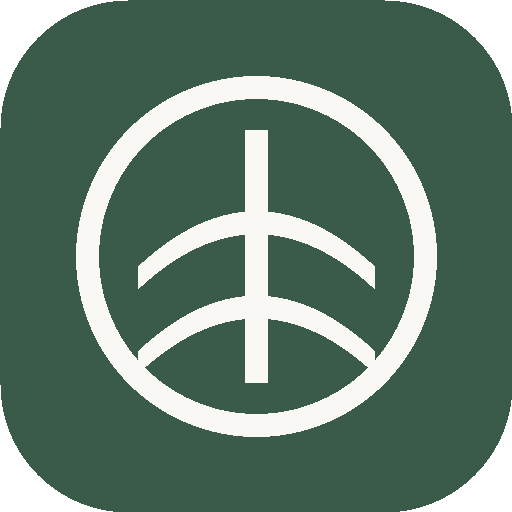
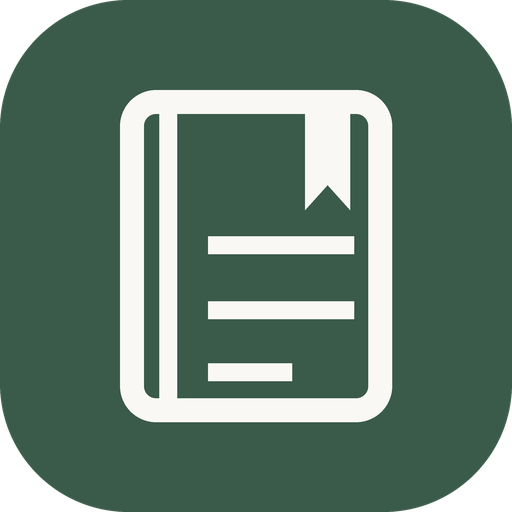
rebrand to DearDiary

Changed region(s): [[0.125, 0.125, 0.875, 0.875]]

diff --git a/src/components/JournalEntry.jsx b/src/components/JournalEntry.jsx
@@ -2,19 +2,40 @@ import { useState } from 'react'
 import styles from './JournalEntry.module.css'
 
 function JournalEntry({ _id, title, createdAt, body, isPendingSync, onEdit, onDelete }) {
-  const [likes, setLikes] = useState(0)
+  const [isFavorite, setIsFavorite] = useState(() => {
+    if (!_id) return false
+    try {
+      return localStorage.getItem(`deardiary_fav_${_id}`) === 'true'
+    } catch {
+      return false
+    }
+  })
 
-  const handleLike = () => {
-    setLikes((prev) => prev + 1)
+  const handleToggleFavorite = () => {
+    setIsFavorite((prev) => {
+      const next = !prev
+      if (_id) {
+        try {
+          if (next) {
+            localStorage.setItem(`deardiary_fav_${_id}`, 'true')
+          } else {
+            localStorage.removeItem(`deardiary_fav_${_id}`)
+          }
+        } catch {
+          // Ignore localStorage errors
+        }
+      }
+      return next
+    })
   }
 
   // Format date gracefully
   const formattedDate = createdAt
     ? new Intl.DateTimeFormat('en-US', {
-        month: 'short',
-        day: 'numeric',
-        year: 'numeric',
-      }).format(new Date(createdAt))
+      month: 'short',
+      day: 'numeric',
+      year: 'numeric',
+    }).format(new Date(createdAt))
     : 'Recent'
 
   // Estimate reading time
@@ -52,14 +73,26 @@ function JournalEntry({ _id, title, createdAt, body, isPendingSync, onEdit, onDe
       <footer className={styles.actions}>
         <button
           type="button"
-          className={`${styles.likeBtn} ${likes > 0 ? styles.likeBtnActive : ''}`}
-          onClick={handleLike}
-          aria-label="Heart reflection"
+          className={`${styles.favoriteBtn} ${isFavorite ? styles.favoriteBtnActive : ''}`}
+          onClick={handleToggleFavorite}
+          aria-label={isFavorite ? 'Remove from favorites' : 'Add to favorites'}
+          title={isFavorite ? 'Favorite' : 'Add to favorites'}
         >
-          <span className={styles.likeIcon} aria-hidden="true">
-            {likes > 0 ? '❤' : '🤍'}
-          </span>
-          <span>{likes}</span>
+          <svg
+            className={styles.favoriteIcon}
+            width="15"
+            height="15"
+            viewBox="0 0 24 24"
+            fill={isFavorite ? 'currentColor' : 'none'}
+            stroke="currentColor"
+            strokeWidth="2"
+            strokeLinecap="round"
+            strokeLinejoin="round"
+            aria-hidden="true"
+          >
+            <polygon points="12 2 15.09 8.26 22 9.27 17 14.14 18.18 21.02 12 17.77 5.82 21.02 7 14.14 2 9.27 8.91 8.26 12 2" />
+          </svg>
+          <span>{isFavorite ? 'Favorite' : 'Favorite'}</span>
         </button>
 
         {onEdit && (

diff --git a/src/components/Header.jsx b/src/components/Header.jsx
@@ -19,14 +19,15 @@ export function Header({ onToggleTheme, user, onLogout }) {
       <Link to="/" className={styles.brand}>
         <div className={styles.brandIcon} aria-hidden="true">
           <svg width="22" height="22" viewBox="0 0 24 24" fill="none" stroke="currentColor" strokeWidth="2" strokeLinecap="round" strokeLinejoin="round">
-            <path d="M12 2a10 10 0 0 1 10 10c0 5.523-4.477 10-10 10a10 10 0 0 1-10-10C2 6.477 6.477 2 12 2z" />
-            <path d="M12 6v12" />
-            <path d="M8 10c2-2 6-2 8 0" />
-            <path d="M8 14c2-2 6-2 8 0" />
+            <path d="M4 19.5v-15A2.5 2.5 0 0 1 6.5 2H20v20H6.5a2.5 2.5 0 0 1-2.5-2.5Z" />
+            <path d="M8 7h8" />
+            <path d="M8 11h8" />
+            <path d="M8 15h5" />
+            <path d="M16 2v7l2-1.5 2 1.5V2" fill="currentColor" stroke="none" />
           </svg>
         </div>
         <div className={styles.brandText}>
-          <h1 className={styles.title}>Sanctuary</h1>
+          <h1 className={styles.title}>DearDiary</h1>
           <p className={styles.subtitle}>A safe space for your thoughts</p>
         </div>
       </Link>
@@ -70,8 +71,8 @@ export function Header({ onToggleTheme, user, onLogout }) {
             onClick={handleInstallClick}
             className={styles.installBtn}
             type="button"
-            aria-label="Install Sanctuary app"
-            title="Install Sanctuary app"
+            aria-label="Install DearDiary app"
+            title="Install DearDiary app"
           >
             <svg width="15" height="15" viewBox="0 0 24 24" fill="none" stroke="currentColor" strokeWidth="2.2" strokeLinecap="round" strokeLinejoin="round" aria-hidden="true">
               <path d="M21 15v4a2 2 0 0 1-2 2H5a2 2 0 0 1-2-2v-4" />

diff --git a/public/sw.js b/public/sw.js
@@ -1,4 +1,4 @@
-const CACHE_NAME = 'sanctuary-shell-v1'
+const CACHE_NAME = 'deardiary-shell-v2'
 
 const PRECACHE_ASSETS = [
   '/',
@@ -109,7 +109,7 @@ self.addEventListener('fetch', (event) => {
   )
 })
 
-// 4. Notification Click Event: Focus existing window or open Sanctuary
+// 4. Notification Click Event: Focus existing window or open DearDiary
 self.addEventListener('notificationclick', (event) => {
   event.notification.close()
 
@@ -132,11 +132,11 @@ self.addEventListener('notificationclick', (event) => {
 // 5. Push Event: Handle background push messages from server
 self.addEventListener('push', (event) => {
   let data = {
-    title: 'Sanctuary — Daily Reflection',
+    title: 'DearDiary — Daily Reflection',
     body: 'Time to record your mindful thoughts today.',
     icon: '/icon-192.png',
     badge: '/icon.svg',
-    tag: 'sanctuary-scheduled-reflection',
+    tag: 'deardiary-scheduled-reflection',
   }
 
   if (event.data) {
@@ -152,7 +152,7 @@ self.addEventListener('push', (event) => {
       body: data.body,
       icon: data.icon || '/icon-192.png',
       badge: data.badge || '/icon.svg',
-      tag: data.tag || 'sanctuary-scheduled-reflection',
+      tag: data.tag || 'deardiary-scheduled-reflection',
       renotify: true,
       data: { url: '/' },
     })

diff --git a/src/components/JournalEntry.module.css b/src/components/JournalEntry.module.css
@@ -77,7 +77,7 @@
   border-top: 1px solid var(--border-subtle);
 }
 
-.likeBtn {
+.favoriteBtn {
   display: inline-flex;
   align-items: center;
   gap: 6px;
@@ -93,24 +93,30 @@
   transition: all 0.2s ease;
 }
 
-.likeBtn:hover {
-  background: var(--accent-warm-light);
-  border-color: var(--accent-warm);
-  color: var(--accent-warm);
+.favoriteBtn:hover {
+  background: rgba(229, 169, 59, 0.12);
+  border-color: #d49a37;
+  color: #b87c1d;
 }
 
-.likeBtnActive {
-  background: var(--accent-warm-light);
-  border-color: var(--accent-warm);
-  color: var(--accent-warm);
+.favoriteBtnActive {
+  background: rgba(229, 169, 59, 0.16);
+  border-color: #d49a37;
+  color: #b87c1d;
+  font-weight: 600;
 }
 
-.likeIcon {
+.favoriteIcon {
+  display: inline-block;
   transition: transform 0.2s cubic-bezier(0.175, 0.885, 0.32, 1.275);
 }
 
-.likeBtn:hover .likeIcon {
-  transform: scale(1.2);
+.favoriteBtn:hover .favoriteIcon {
+  transform: scale(1.18);
+}
+
+.favoriteBtnActive .favoriteIcon {
+  color: #d49a37;
 }
 
 .editBtn {

diff --git a/index.html b/index.html
@@ -10,8 +10,8 @@
     <meta name="description" content="A mindful, safe space for your reflections, ideas, and personal journals." />
     <meta name="mobile-web-app-capable" content="yes" />
     <meta name="apple-mobile-web-app-status-bar-style" content="default" />
-    <meta name="apple-mobile-web-app-title" content="Sanctuary" />
-    <title>Sanctuary — A Space for Your Thoughts</title>
+    <meta name="apple-mobile-web-app-title" content="DearDiary" />
+    <title>DearDiary — A Space for Your Thoughts</title>
     <link rel="preconnect" href="https://fonts.googleapis.com" />
     <link rel="preconnect" href="https://fonts.gstatic.com" crossorigin />
     <link href="https://fonts.googleapis.com/css2?family=Newsreader:ital,opsz,wght@0,6..72,400;0,6..72,500;0,6..72,600;1,6..72,400;1,6..72,500&family=Plus+Jakarta+Sans:wght@400;500;600;700&display=swap" rel="stylesheet" />

diff --git a/src/hooks/useNotifications.js b/src/hooks/useNotifications.js
@@ -68,7 +68,7 @@ export const useNotifications = () => {
     return subscription
   }
 
-  const sendLocalNotification = async (title = 'Sanctuary — Daily Reflection', options = {}) => {
+  const sendLocalNotification = async (title = 'DearDiary — Daily Reflection', options = {}) => {
     if (!isSupported || permission !== 'granted') return
 
     try {
@@ -77,7 +77,7 @@ export const useNotifications = () => {
         body: 'Take a mindful pause. Record your reflections for today.',
         icon: '/icon-192.png',
         badge: '/icon.svg',
-        tag: 'sanctuary-daily-reflection',
+        tag: 'deardiary-daily-reflection',
         renotify: true,
         ...options,
       })

diff --git a/backend/services/cron.service.js b/backend/services/cron.service.js
@@ -25,11 +25,11 @@ export const initCron = () => {
       for (const reminder of activeReminders) {
         try {
           const payload = {
-            title: 'Sanctuary — Daily Reflection',
-            body: 'It is time for your daily mindful reflection. Open Sanctuary to write your thoughts.',
+            title: 'DearDiary — Daily Reflection',
+            body: 'It is time for your daily mindful reflection. Open DearDiary to write your thoughts.',
             icon: '/icon-192.png',
             badge: '/icon.svg',
-            tag: 'sanctuary-scheduled-reflection',
+            tag: 'deardiary-scheduled-reflection',
             timestamp: Date.now(),
           }
 

diff --git a/src/pages/About.jsx b/src/pages/About.jsx
@@ -41,7 +41,7 @@ const About = () => {
             letterSpacing: '-0.01em',
           }}
         >
-          About Sanctuary
+          About DearDiary
         </h2>
       </div>
 
@@ -53,7 +53,7 @@ const About = () => {
           fontSize: '1rem',
         }}
       >
-        Sanctuary is designed as a peaceful, distraction-free environment to record thoughts, track personal growth, and cultivate mindfulness.
+        DearDiary is designed as a peaceful, distraction-free environment to record thoughts, track personal growth, and cultivate mindfulness.
       </p>
 
       <p

diff --git a/src/pages/Home.jsx b/src/pages/Home.jsx
@@ -98,7 +98,7 @@ const Home = ({ entries = [], addEntry, updateEntry, deleteEntry, loading: notes
             </div>
             <h3 className="empty-state-title">A quiet moment for yourself</h3>
             <p className="empty-state-desc">
-              Your sanctuary is currently clear. Take a gentle breath and pen your thoughts, gratitude, or reflections above.
+              Your diary is currently clear. Take a gentle breath and pen your thoughts, gratitude, or reflections above.
             </p>
           </div>
         ) : (

diff --git a/backend/services/reminder.service.js b/backend/services/reminder.service.js
@@ -51,11 +51,11 @@ export const sendTestReminder = async (userId) => {
   }
 
   const payload = {
-    title: 'Sanctuary — Reminder Test',
+    title: 'DearDiary — Reminder Test',
     body: 'Your scheduled reminder is configured and working perfectly!',
     icon: '/icon-192.png',
     badge: '/icon.svg',
-    tag: 'sanctuary-test-reminder',
+    tag: 'deardiary-test-reminder',
     timestamp: Date.now(),
   }
 

diff --git a/src/components/OfflineBanner.jsx b/src/components/OfflineBanner.jsx
@@ -29,7 +29,7 @@ export const OfflineBanner = () => {
         <line x1="12" y1="20" x2="12.01" y2="20" />
       </svg>
       <p className={styles.text}>
-        You are currently offline. Sanctuary is running from your local cache.
+        You are currently offline. DearDiary is running from your local cache.
       </p>
     </div>
   )

diff --git a/src/App.css b/src/App.css
@@ -1,4 +1,4 @@
-/* ── Sanctuary Layout ── */
+/* ── DearDiary Layout ── */
 .app {
   min-height: 100vh;
   background-color: var(--bg-canvas);
